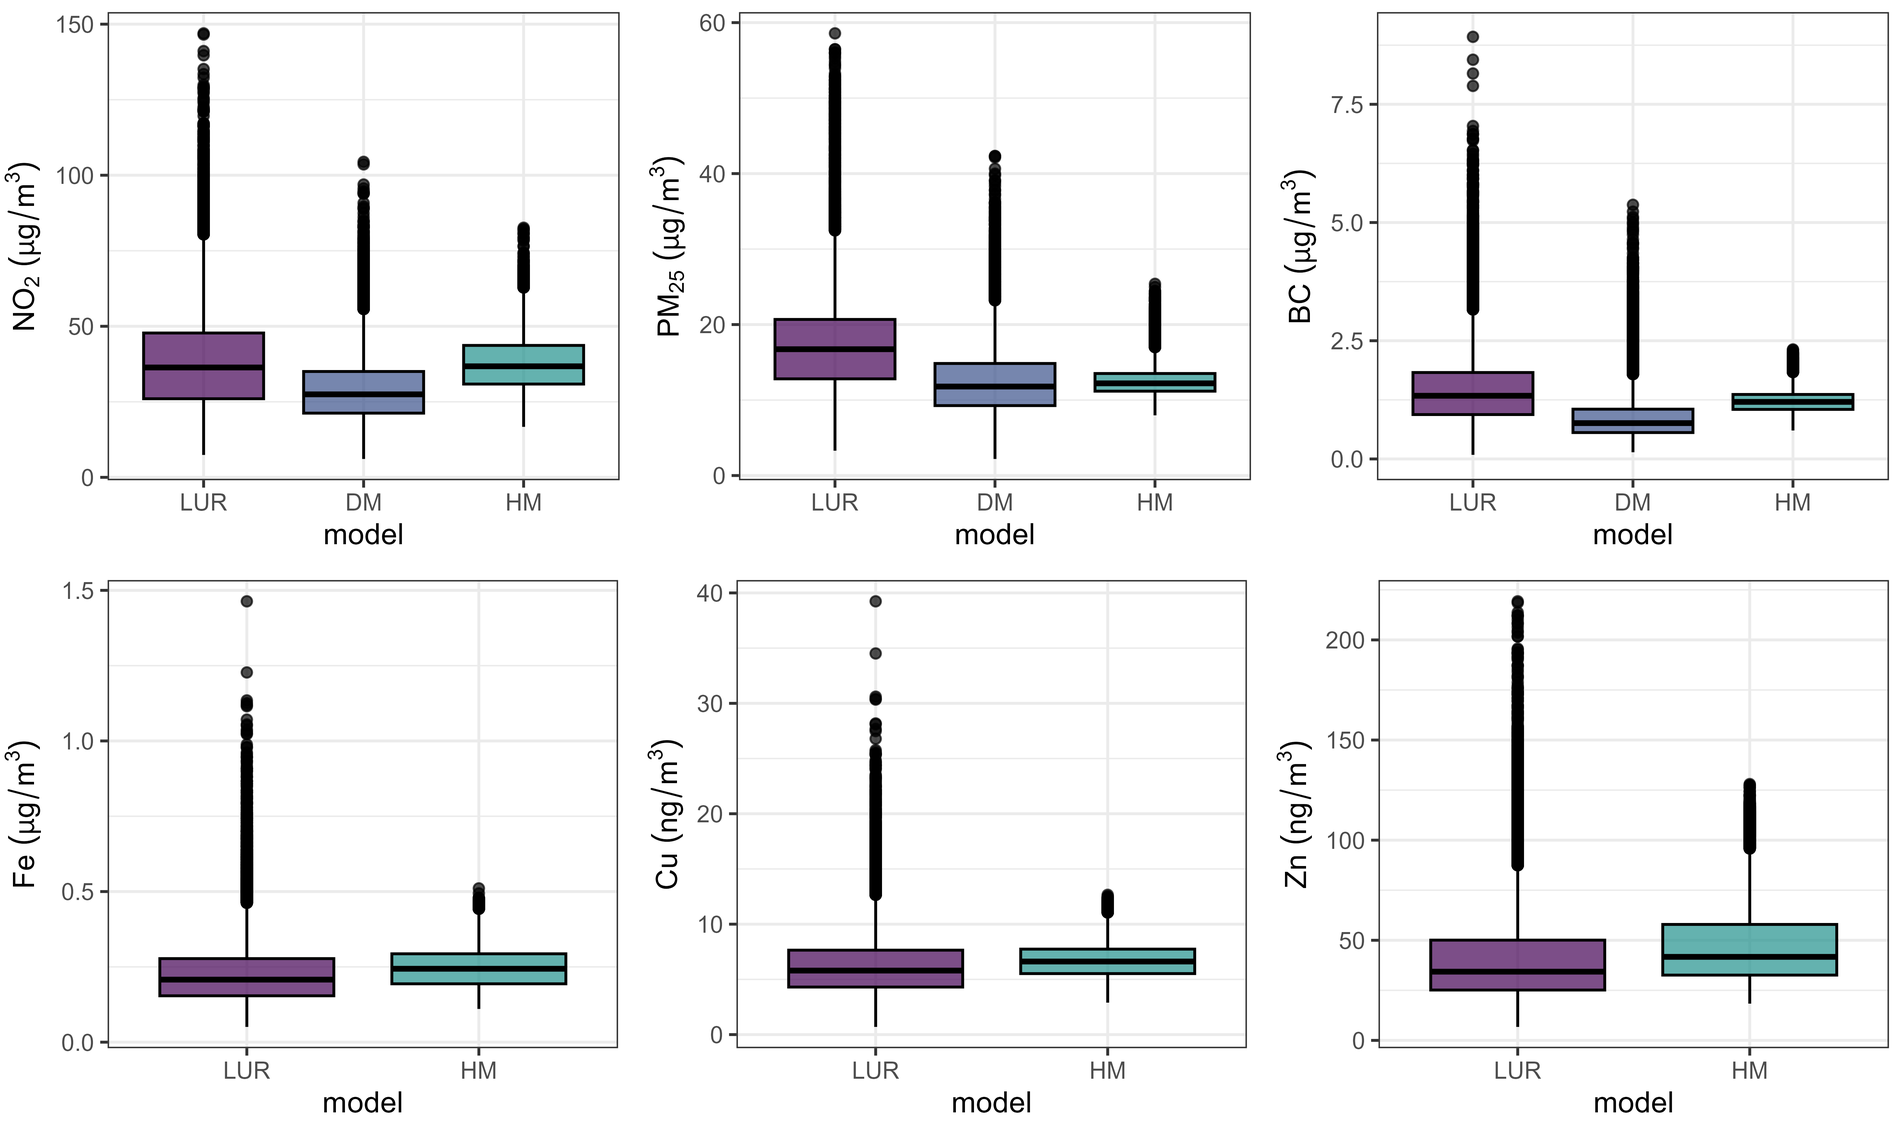
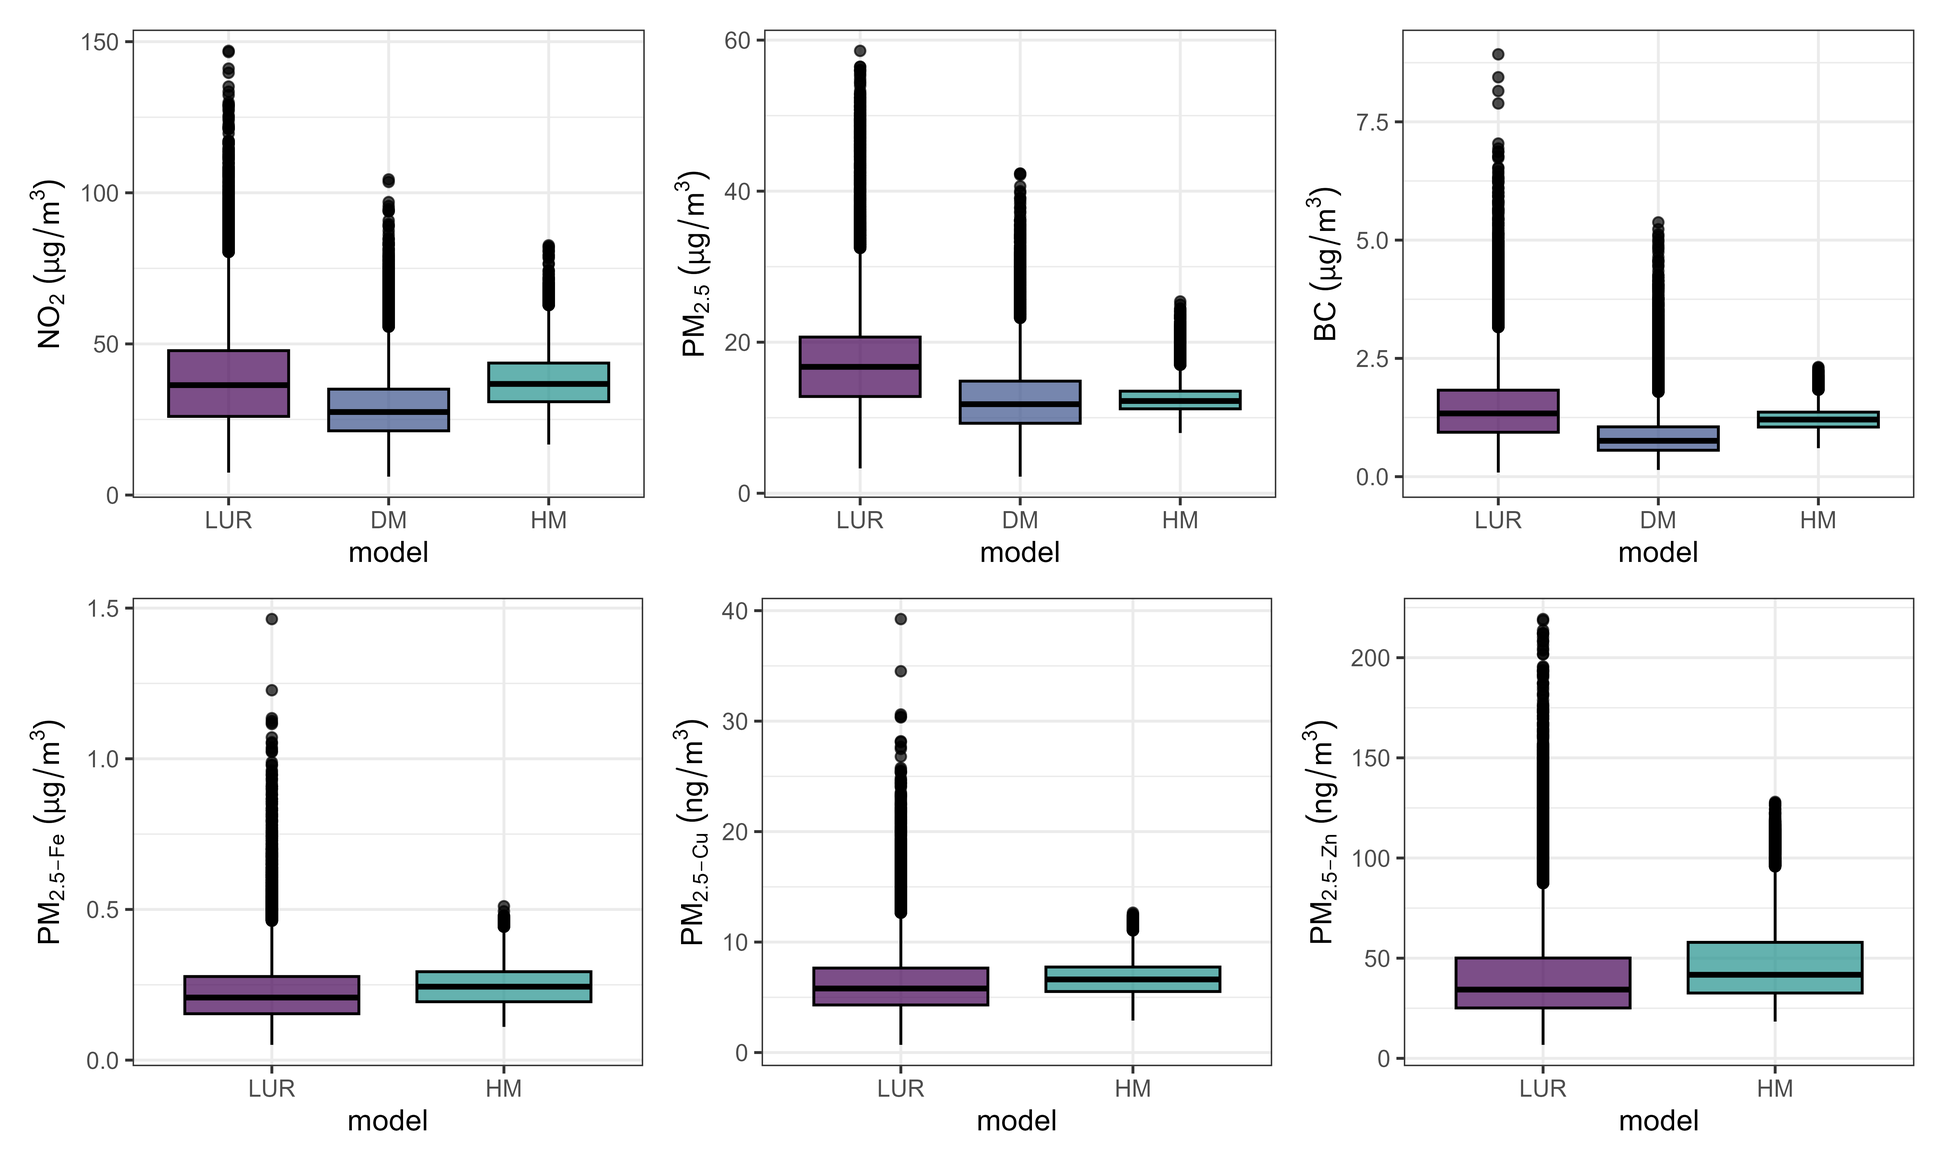
Updates from Overleaf

diff --git a/supplementary_BiSC_outdoor_AP.tex b/supplementary_BiSC_outdoor_AP.tex
@@ -131,13 +131,29 @@ For the NO\textsubscript{2} data (BiSCAPE + BiSC) the \textit{difference method}
     \item Collect hourly air pollution data from a routine monitoring site covering the baseline period. We used data from Palau Reial monitoring station, as this is the reference site for the BiSCAPE campaigns and the BiSC cohort. NO\textsubscript{2}, data at Palau Reial was missing for only 5 \% of the period. Even though the missing rate is low, we imputed missing data by doing a linear regression with NO\textsubscript{2} levels at the monitoring site of Sants (r = 0.84). After recovering those data, the percentage of missing data at Palau Reial decreased to 0.68 \%. 
     \item Calculate the average concentration of NO\textsubscript{2} for the routine monitoring site covering the baseline measurement period: C\textsubscript{PR}(avg).
     \item Calculate the concentrations of the pollutant at the routine monitoring site for the exact same period (t) as the sample collected at the BiSC and BiSCAPE locations in the different periods: CP\textsubscript{PR}(t). 
-    \item Calculate for the routine monitoring site for each sample the difference between the concentration (C\textsubscript{PR}) and the average covering the baseline measurement period: DC\textsubscript{PR}(t) = C\textsubscript{PR}(t) - C\textsubscript{PR}(avg).
-    \item Calculate for each sample at site i (C\textsubscript{i}(t)) the adjusted concentration (C\textsubscript{i, adj}(t)) by computing: C\textsubscript{i,adj}(t) = C\textsubscript{i}/DC\textsubscript{PR}(t).
+    \item Calculate for the routine monitoring site for each sample the difference between the concentration (C\textsubscript{PR}) and the average covering the baseline measurement period: D\_C\textsubscript{PR}(t) = C\textsubscript{PR}(t) - C\textsubscript{PR}(avg).
+    \item Calculate for each sample at site i (C\textsubscript{i}(t)) the adjusted concentration (C\textsubscript{i, adj}(t)) by computing: C\textsubscript{i,adj}(t) = C\textsubscript{i}/D\_C\textsubscript{PR}(t).
 \end{enumerate}
 
-\subsubsection{PM\textsubscript{2.5}, PM\textsubscript{2.5} components (Fe, Cu, Zn), and BC deseasonalization}
+\subsubsection{PM\textsubscript{2.5}, BC, PM\textsubscript{2.5 - Fe}, PM\textsubscript{2.5 - Cu}, PM\textsubscript{2.5 - Zn} deseasonalization}
 
-For the PM\textsubscript{2.5} data (BiSCAPE + BiSC) the \textit{difference method} was used for deseasonalisation. 
+For the PM\textsubscript{2.5}, BC, PM\textsubscript{2.5 - Fe}, PM\textsubscript{2.5 - Cu}, PM\textsubscript{2.5 - Zn} the data available was obtained during the BiSCAPE campaigns. The \textit{ratio method} was used for deseasoanlisation. The method procedure is very similar to the difference method explained. The rationale for using a different method for these pollutants is that we aim to create LUR models for some PM\textsubscript{2.5} components. Since we do not have hourly data from the PM\textsubscript{2.5} components for the baseline period (data is only available as a daily average every four days), the deseasonalisation of these components needs to be done with total PM\textsubscript{2.5} conctrations. As the \textit{ratio method} is based on subtraction, this method cannot be applied to different pollutants than the reference. Samples collected within the BiSCAPE campaigns at Palau Reial showed lower concentrations than those collected online at Palau Reial. Using the ratio method in PM\textsubscript{2.5} concentrations may lead to over-subtracting.
+
+\begin{enumerate}
+  \item Define the baseline period, that is, the total period in which the air pollution measurements were done. For PM\textsubscript{2.5} and its chemical components and BC the baseline period is from 01/01/2021 to 16/02/2022. 
+  \item Collect hourly air pollution data from a routine monitoring site covering the baseline period. We used data from Palau Reial monitoring site, as this is the reference site for the BiSC cohort. 
+  \begin{enumerate}
+      \item PM\textsubscript{2.5} data at Palau Reial was missing for 26.8\% of the period due instrument maintenance. We imputed missing data by doing a linear regression with collocated BC concentrations (r=0.57) as no other station in Barcelona had hourly data for PM\textsubscript{2.5} during this period. After recovering those data, the percentage of missing data at Palau Reial decreased to 1.0\%. 
+      \item BC data at Palau Reial was missing for only 2.3\% of the period
+  \end{enumerate}
+ \item Calculate the average concentration of the corresponding pollutant (j) for the routine monitoring site covering the baseline measurement period: C\textsubscript{j,PR}(avg). For PM\textsubscript{2.5} components, in this step j corresponds to total PM\textsubscript{2.5} mass concentrations.
+ \item Calculate the concentrations of the pollutant j at the routine monitoring site for the exact same period (t) as the sample collected at BiSCAPE locations in the different periods: C\textsubscript{j,PR}(t). For PM\textsubscript{2.5} components, in this step j corresponds to total PM\textsubscript{2.5} mass concentrations. 
+ \item Calculate the routine monitoring site for each sample the ratio between the concentration of pollutant j (C\textsubscript{j, PR}(t)) and the average covering the baseline measurement period: R\_C\textsubscript{j,PR} = C\textsubscript{PR}(t) / C\textsubscript{PR}(avg). For PM\textsubscript{2.5} components, in this step j correspond to total PM\textsubscript{2.5} mass concentrations.
+ \item Calculate for each sample at site i (C\textsubscript{i}(t)) the adjusted concentration of pollutant j (C\textsubscript{i,adj}(t)) by computing: C\textsubscript{j,i,adj}(t) = c\textsubscript{j,i}(t)/R\_C\textsubscript{j,PR}(t)
+\end{enumerate}
+
+\subsubsection{Averages for LUR model development}
+Once the measurements done at different time points (t) and sites (i) for the different pollutants (j) were deseasonalised, we proceeded to calculate the average of the adjusted cocnentrations for each site i. Therefore, the average value obtained for each site was considered to be the average for the baseline period at site i. These averages were the input values for the development of the LUR model. 
 
 %%%%%%%%%%%%%%%%%%%%%%%%%%%%%%%%%%%%
 %%% --- Performance metrics --- %%% 
@@ -166,6 +182,8 @@ r = \frac{\sum (x_i - \bar{x})(y_i - \bar{y})}{\sqrt{\sum (x_i - \bar{x})^2 \sum
 %%% --- Model development --- %%%
 %%%%%%%%%%%%%%%%%%%%%%%%%%%%%%%%%
 \subsection{Model development}
+
+Following the ESCAPE guidelines 
 
 
 
@@ -258,6 +276,32 @@ In the BiSC cohort study, we aim to study the effect of air pollution exposure u
 
 \subsection{Predictor variables and sources of information}
 
+\subsubsection{Spatial variables}
+
+%%% Figure: Monitoring stations and time-series used for LUR Back-Extrapolation %%%
+\captionsetup[figure]{skip=6pt} % Adjusting the space between the figure and its caption
+\begin{figure}[!htb]
+    \centering
+    \includegraphics[width=0.6\textwidth]{figures/lur_pred_corr.png} % Adjust the path to your image
+    \caption{Spatial location and daily temporal concentrations at Palau Reial station.}
+    \label{FigureS1} % Label for referencing
+\end{figure}
+
+
+\subsubsection{Air pollution monitoring stations (XVPCA stations)}
+%%% Figure: Monitoring stations and time-series used for LUR Back-Extrapolation %%%
+\captionsetup[figure]{skip=6pt} % Adjusting the space between the figure and its caption
+\begin{figure}[!htb]
+    \centering
+    \includegraphics[width=1.0\textwidth]{figures/location_ts_stations_hm.png} % Adjust the path to your image
+    \caption{Spatial location and daily temporal concentrations at Palau Reial station.}
+    \label{FigureS1} % Label for referencing
+\end{figure}
+
+\subsubsection{Traffic count measurement and meteorological data}
+While our dispersion model initiall
+
+\subsubsection{Dispersion model estimates}
 
 \subsection{Performance metrics}
 The following metrics were used to evaluate the HM for all the air pollutants assessed. 
@@ -278,17 +322,18 @@ r = \frac{\sum (x_i - \bar{x})(y_i - \bar{y})}{\sqrt{\sum (x_i - \bar{x})^2 \sum
 \end{equation}
 \vspace{0.5 cm}
 
+\clearpage
+\begin{samepage}
 \subsection{Model performance}
-
-
-
-
+The performance metrics of the final HM for NO\textsubscript{2}, PM\textsubscript{2.5}, BC and PM\textsubscript{2.5 - Fe}, PM\textsubscript{2.5 - Cu}, PM\textsubscript{2.5 - Zn} is described in \textbf{\Cref{Table S4}}
 
 %%% --- Table with performance metrics for Hybrid models --- %%%
-\begin{table}[ht]
+\begin{table}[!htbp]
 \caption{Performance metric for hybrid models.}
+\label{Table S4}
 \centering
 \begin{threeparttable}
+\small % Making the table text smaller
 \begin{tabular}{llllll}
 \toprule
 \textbf{Pollutant} & \textbf{Year} & \textbf{N} & \textbf{R\textsuperscript{2}\textsubscript{10-CV}} & \textbf{RMSE\textsubscript{10-CV}} & \textbf{Predictors}\tnote{2} \\
@@ -296,34 +341,52 @@ r = \frac{\sum (x_i - \bar{x})(y_i - \bar{y})}{\sqrt{\sum (x_i - \bar{x})^2 \sum
 \multirow{6}{*}{NO\textsubscript{2}} & \multirow{6}{*}{2018-2021} & \multirow{6}{*}{1232} & \multirow{6}{*}{0.64} & \multirow{6}{*}{7.48} & no2\_dispersion +  idw\_no2\_monitoring\_station + \\
  & & & & & distinvmajor1 + majorroadlength100 + \\
  & & & & & majorroadlength50 + trafload25 + trafnear + \\ 
- & & & & & avg\_traffic\_stations + avg\_solar\_radiation +\\ 
- & & & & & sqralt + ldres1000 +ldres500 + hdres1000 +  \\
+ & & & & & avg\_traffic\_stations + avg\_solar\_radiation + \\ 
+ & & & & & sqralt + ldres1000 +ldres500 + hdres1000 + \\
  & & & & & build1000 + roads100 + lat + lon \\
 \midrule
-\multirow{4}{*}{PM\textsubscript{2.5}} & \multirow{4}{*}{2021} & \multirow{4}{*}{161} & \multirow{4}{*}{0.66} & \multirow{4}{*}{3.45} & pm25\_dispersion + idw\_pm25monitoring\_stations + \\
-& & & & & avg\_traffic\_stations + ldres1000 + build25 +  pop1000 + \\
-& & & & & roads25 + sqralt +  majorroadlength25 + \\
-& & & & & trafload300 + build\_height\_25 + lat + lon \\
+\multirow{5}{*}{PM\textsubscript{2.5}} & \multirow{5}{*}{2021} & \multirow{5}{*}{161} & \multirow{5}{*}{0.66} & \multirow{5}{*}{3.45} & pm25\_dispersion + idw\_pm25monitoring\_stations + \\
+& & & & & avg\_traffic\_stations + ldres1000 + build25 + \\
+& & & & & pop1000 + roads25 + sqralt  + \\
+& & & & &  majorroadlength25 + trafload300 + \\
+& & & & & build\_height\_25 + lat + lon \\
 \midrule
-BC & 2021 & 74 & 0.86 &  0.23 & bc\_Dispersion + idw\_nox\_monitoring\_stations +
- avg\_atmospheric\_pressure + avg\_bc\_palau\_reial +  pop100 + hdres300 + roads25 + avg\_wind\_speed + roadlength25 +  hdres50 + distinvmajor1 + avg\_traffic\_stations +  linesnear +  pop300 + 
- trafload500 + roads500
- \\
+\multirow{6}{*}{BC} & \multirow{6}{*}{2021} &\multirow{6}{*}{74} & \multirow{6}{*}{0.86} & \multirow{6}{*}{0.23} & bc\_dispersion + idw\_nox\_monitoring\_stations +\\ 
+& & & & & avg\_atmospheric\_pressure + avg\_bc\_palau\_reial +   \\ 
+& & & & &  pop100 + hdres300 + roads25 + avg\_wind\_speed +  \\
+& & & & & roadlength25 + hdres50 + distinvmajor1 +  \\
+& & & & & avg\_traffic\_stations + linesnear + \\
+& & & & & pop300 + trafload500 + roads500 \\
 \midrule
-PM\textsubscript{2.5 - Fe} & 2021 & 161 & 0.54 & 0.08 & pm25\_road\_nonexhaust +idw\_pm25monitoring\_stations + roads300 + roads1000 + ldres500 + sqralt + zbe + lat + lon \\
+\multirow{4}{*}{PM\textsubscript{2.5 - Fe}} & \multirow{4}{*}{2021} & \multirow{4}{*}{161}  & \multirow{4}{*}{0.54} & \multirow{4}{*}{0.08} & pm25\_road\_nonexhaust + \\ 
+& & & & & idw\_pm25\_monitoring\_stations + \\
+& & & & & roads300 + roads1000 + ldres500 + \\
+& & & & & sqralt + zbe + lat + lon \\
 \midrule
-PM\textsubscript{2.5 - Cu} & 2021 & 154 & 0.70 & 2.15 & pm25\_road\_nonexhaust + idw\_pm25monitoring\_stations +  linesnear + industry1000 + roads300 + ldres1000 + roads1000 + avg\_traffic\_stations + zbe + lat + lon \\
+\multirow{5}{*}{PM\textsubscript{2.5 - Cu}} & \multirow{5}{*}{2021} & \multirow{5}{*}{154} & \multirow{5}{*}{0.70} & \multirow{5}{*}{2.15} & pm25\_road\_nonexhaust + \\
+& & & & & idw\_pm25\_monitoring\_stations + \\
+& & & & & linesnear + industry1000 + roads300 + \\
+& & & & & ldres1000 + roads1000 + avg\_traffic\_stations + \\
+& & & & &  zbe + lat + lon \\
 \midrule
-PM\textsubscript{2.5 - Zn} & 2021 & 141 & 0.44 & 27.7 & pm25\_road\_nonexhaust + pm25\_background + idw\_pm25monitoring\_stations + linesnear + industry1000 + roads50 + build25 + roads300 + ldres1000 + roads1000 + avg\_traffic\_stations +  trafmajor +trafmajorload1000 +trafload1000 + hdres25 + zbe + lat + lon \\
+\multirow{6}{*}{PM\textsubscript{2.5 - Zn}} &\multirow{6}{*}{2021} & \multirow{6}{*}{141} & \multirow{6}{*}{0.44} & \multirow{6}{*}{27.7} & pm25\_road\_nonexhaust + pm25\_background + \\
+& & & & & idw\_pm25monitoring\_stations + linesnear + \\
+& & & & & industry1000 + roads50 + build25 + roads300 + \\
+& & & & & ldres1000 + roads1000 + avg\_traffic\_stations + \\
+& & & & & trafmajor + trafmajorload1000 +  trafload1000 +\\
+& & & & & hdres25 + zbe + lat + lon \\
 \bottomrule
 \end{tabular}
 \begin{tablenotes}
-\small
+\scriptsize
 \item [2] Predictor variables (no2\_Dispersion: dispersion estimates (ug/m$^3$), pm25\_Dispersion: dispersion estimates PM2.5 (ug/m$^3$), BC\_Dispersion: dispersion estimates BC (ug/m$^3$), PM25\_road\_nonexhaust: dispersion estimates for nonexhaust PM2.5 (ug/m$^3$), PM25\_background: dispersion estimates for background PM2.5 (ug/m$^3$), idw\_no2\_monitoring\_station: weekly NO$_2$ inverse distance weighting interpolation estimates from XVCPA (ug/m$^3$), idw\_pm25\_monitoring\_station: weekly PM2.5 inverse distance weighting interpolation estimates from XVCPA (ug/m$^3$), idw\_nox\_monitoring\_station: weekly NOx inverse distance weighting interpolation estimates from XVCPA (ug/m$^3$), avg\_bc\_palau\_reial: weekly BC average concentration from Palau Reial monitoring station (ug/m$^3$), avg\_traffic\_stations: weekly average count of vehicles in AMB (count), avg\_solar\_radiation: weekly average solar radiation from Raval station (MJ/m$^2$), avg\_wind\_speed: weekly average wind speed from Raval station (km/h), avg\_atmospheric\_pressure: atmospheric pressure from Raval station (hPA), roadlength: total road length (m), majorroadlength: total major road length (m), trafload: total traffic intensity (veh/day), trafnear: traffic intensity at the nearest road (veh/day), linesnear: number traffic lines on nearest street, zbe: Low Emissions Zone (Yes/No, ref value=No), hdres: high-density residential area (m$^2$), roads: roads surface area (m$^2$), ind: industry area (m$^2$), pop: population density (inhabitants), build: building area (m$^2$), ldress: low density residential area (m$^2$), industry: industrial area (m$^2$), trafmajor: total major roads traffic intensity (veh/day), build\_height: averaged building height (meters), lat: latitude (m), sqralt: squared root altitude (m$^{1/2}$)).
 \end{tablenotes}
 \label{tablesX}
 \end{threeparttable}
 \end{table}
+\end{samepage}
+\clearpage
+
 
 
 \newpage
@@ -352,11 +415,6 @@ PM\textsubscript{2.5 - Zn} & 2021 & 141 & 0.44 & 27.7 & pm25\_road\_nonexhaust +
 \caption{Comparison between measurements and prediction values for the hybrid models for \textit{NO$_2$}, \textit{PM$_{2.5}$}, \textit{BC}, \textit{PM\textsubscript{2.5 - Fe}}, \textit{PM\textsubscript{2.5 - Cu}}, and \textit{PM\textsubscript{2.5 - Zn}}.}
 \label{fig2}
 \end{figure}
-
-
-
-
-
 
 
 %%%%%%%%%%%%%%%%%%%%%%%%%%%

diff --git a/manuscript_BiSC_outdoor_AP.tex b/manuscript_BiSC_outdoor_AP.tex
@@ -83,7 +83,7 @@ Urban areas add a layer of complexity to air pollution modelling due to complex 
 In this study, within the framework of the Barcelona Life Study Cohort (BiSC), we developed LUR, DM, and HM models to estimate outdoor air pollution exposure at residential addresses. LUR and DM, were constructed using conventional techniques, while HM was designed by harnessing RF algorithm, integrating outputs from DM with explanatory variables from the LUR model. The overall aim is to obtain accurate NO\textsubscript{2}, PM\textsubscript{2.5}, PM\textsubscript{2.5} constituents (Fe, Zn, Cu, Sb), and BC estimates, intended to be used in the prenatal exposure assessment within the BiSC cohort. 
 
 %%%%%%%%%%%%%%%%%%%%%%%%%%%%%%%%%%%%
-%%% --- Material and methods--- %%%%%%%%%%%%%%%%%%%%%%%%%%%%%%%%%%%%%
+%%% --- Material and methods--- %%%%%%%%%%%%%%%%%%%%%%%%%%%%%%%%%%%%%%%%
 %%%%%%%%%%%%%%%%%%%%%%%%%%%%%%%%%%%
 \section{Materials and methods}
 
@@ -189,7 +189,7 @@ Distribution of the observed concentration for the BiSC-home and BiSCAPE campaig
 \toprule
 Campaign & Pollutant & Year  & mean & sd & min & p25 & p50 & p75 & max \\ 
 \midrule
-BiSC-home, BiSCAPE & NO\textsubscript{2} (\mu\)g/m\textsuperscript{3}) & 2018-2021 & 38.8 & 12.4 & 6.85 &30.0 & 37.5 & 45.8 & 97.3 \\
+BiSC-home + BiSCAPE & NO\textsubscript{2} (\mu\)g/m\textsuperscript{3}) & 2018-2021 & 38.8 & 12.4 & 6.85 &30.0 & 37.5 & 45.8 & 97.3 \\
 \hline
 \multirow{5}{*}{BiSCAPE} 
 & PM\textsubscript{2.5} (\(\mu\)g/m\textsuperscript{3}) & 2021-2022  & 13.4 & 6.14 & 5.01 & 9.06 & 11.3 & 16.2 & 35.8 \\ 
@@ -203,7 +203,7 @@ BiSC-home, BiSCAPE & NO\textsubscript{2} (\mu\)g/m\textsuperscript{3}) & 2018-20
 
 The spatial distribution of the outdoor air pollution sampling campaigns is shown in \Cref{fig1}. Figure 1A illustrates a high density coverage in the central area of Barcelona, where the BiSC-home campaign was conducted. Figure 1B exhibit a similar pattern of spatial distribution of the monitoring campaign but with a reduced density in sampling locations. 
 
-%%%%%%%%%%%%%%%%%%%%%%%%%%%%%%%%%%%%%%%%%%%
+%%%%%%%%%%%%%%%%%%%%%%%%%%%%%%%%%%%%%%%%%%%                       
 % --- Model performance: LUR, DM, HM --- % 
 %%%%%%%%%%%%%%%%%%%%%%%%%%%%%%%%%%%%%%%%%%%
 \subsection{Model performance: LUR, DM, HM}
@@ -223,7 +223,7 @@ Predictions from outdoor air pollution concentration exposure during the entire 
 %%% --- Figure 2. Boxplot models comparison --- %%%
 %%% -------------------------------------------%%%%
 \begin{figure}[!htb]
-\includegraphics[width=1.0\textwidth]{figures/boxplot_all_models_estimates.png}
+\includegraphics[width=0.9\textwidth]{figures/boxplot_all_models_estimates.png}
 \caption{Distribution of exposure to outdoor air pollution during the entire pregnancy period for each exposure assessment model (\textit{NO$_2$}, \textit{PM$_{2.5}$}, \textit{BC}, \textit{Fe}, \textit{Cu}, \textit{Zn})}
 \label{fig2}
 \end{figure}
@@ -243,8 +243,15 @@ Predictions from outdoor air pollution concentration exposure during the entire 
 \captionsetup[figure]{skip=6pt}
 % We add the figure with the study domain 
 \begin{figure}[!htb]
-\includegraphics[width=1.0\textwidth]{figures/all_maps.png}
+\includegraphics[width=0.9\textwidth]{figures/combined_figure1.png}
 \caption{Outdoor air pollution exposure during the entire pregnancy period (\textit{NO$_2$}, \textit{PM$_{2.5}$}, \textit{BC}).}
+\end{figure}
+
+\captionsetup[figure]{skip=6pt}
+% We add the figure with the study domain 
+\begin{figure}[!htb]
+\includegraphics[width=0.9\textwidth]{figures/combined_figure2.png}
+\caption{Outdoor air pollution exposure during the entire pregnancy period for LUR and hm(\textit{PM$_{2.5}$}, \textit{PM$_{2.5-Fe}$}, \textit{PM$_{2.5-Cu}$}, \textit{PM$_{2.5-Zn}$}.}
 \end{figure}
 
 \newpage
@@ -280,17 +287,13 @@ Correlation for long-term exposure (entire pregnancy) at the residential address
 \end{figure}
 
 \newpage
+
 %%%%%%%%%%%%%%%%%%%%%%%%%%%
 %%% --- Discussion --- %%%
 %%%%%%%%%%%%%%%%%%%%%%%%%
 \section{Discussion}
 We successfully developed spatiotemporal models using three different approaches (LUR, DM, and HM). Models show moderate to good performance 
-
-
-
-spatiotemporal models using three different approaches (LUR, DM and HM). All models show moderate to good performance evaluated by the defined metrics in the \textbf{methods section} and displayed in more detail in the \textbf{Supplementary materials}. 
-
-As we expected, hybrid models outperformed the LUR and DM models for the air pollutants assessed. We believe that by combining multiple data sources, and integrating RF algorithm, we were able to capture non-linear and interactions between variables and consequently improve model predictive ability. 
+evaluated by the defined metrics previously and displayed in more detail in the \textbf{supplementary materials}. As we expected, hybrid models outperformed the LUR and DM models for the air pollutants assessed. We believe that by combining multiple data sources, and integrating RF algorithm, we were able to capture non-linear and interactions between variables and consequently improve model predictive ability. 
 
 \subsection{Comparison between LUR, DM, and Hybrid model}
 
